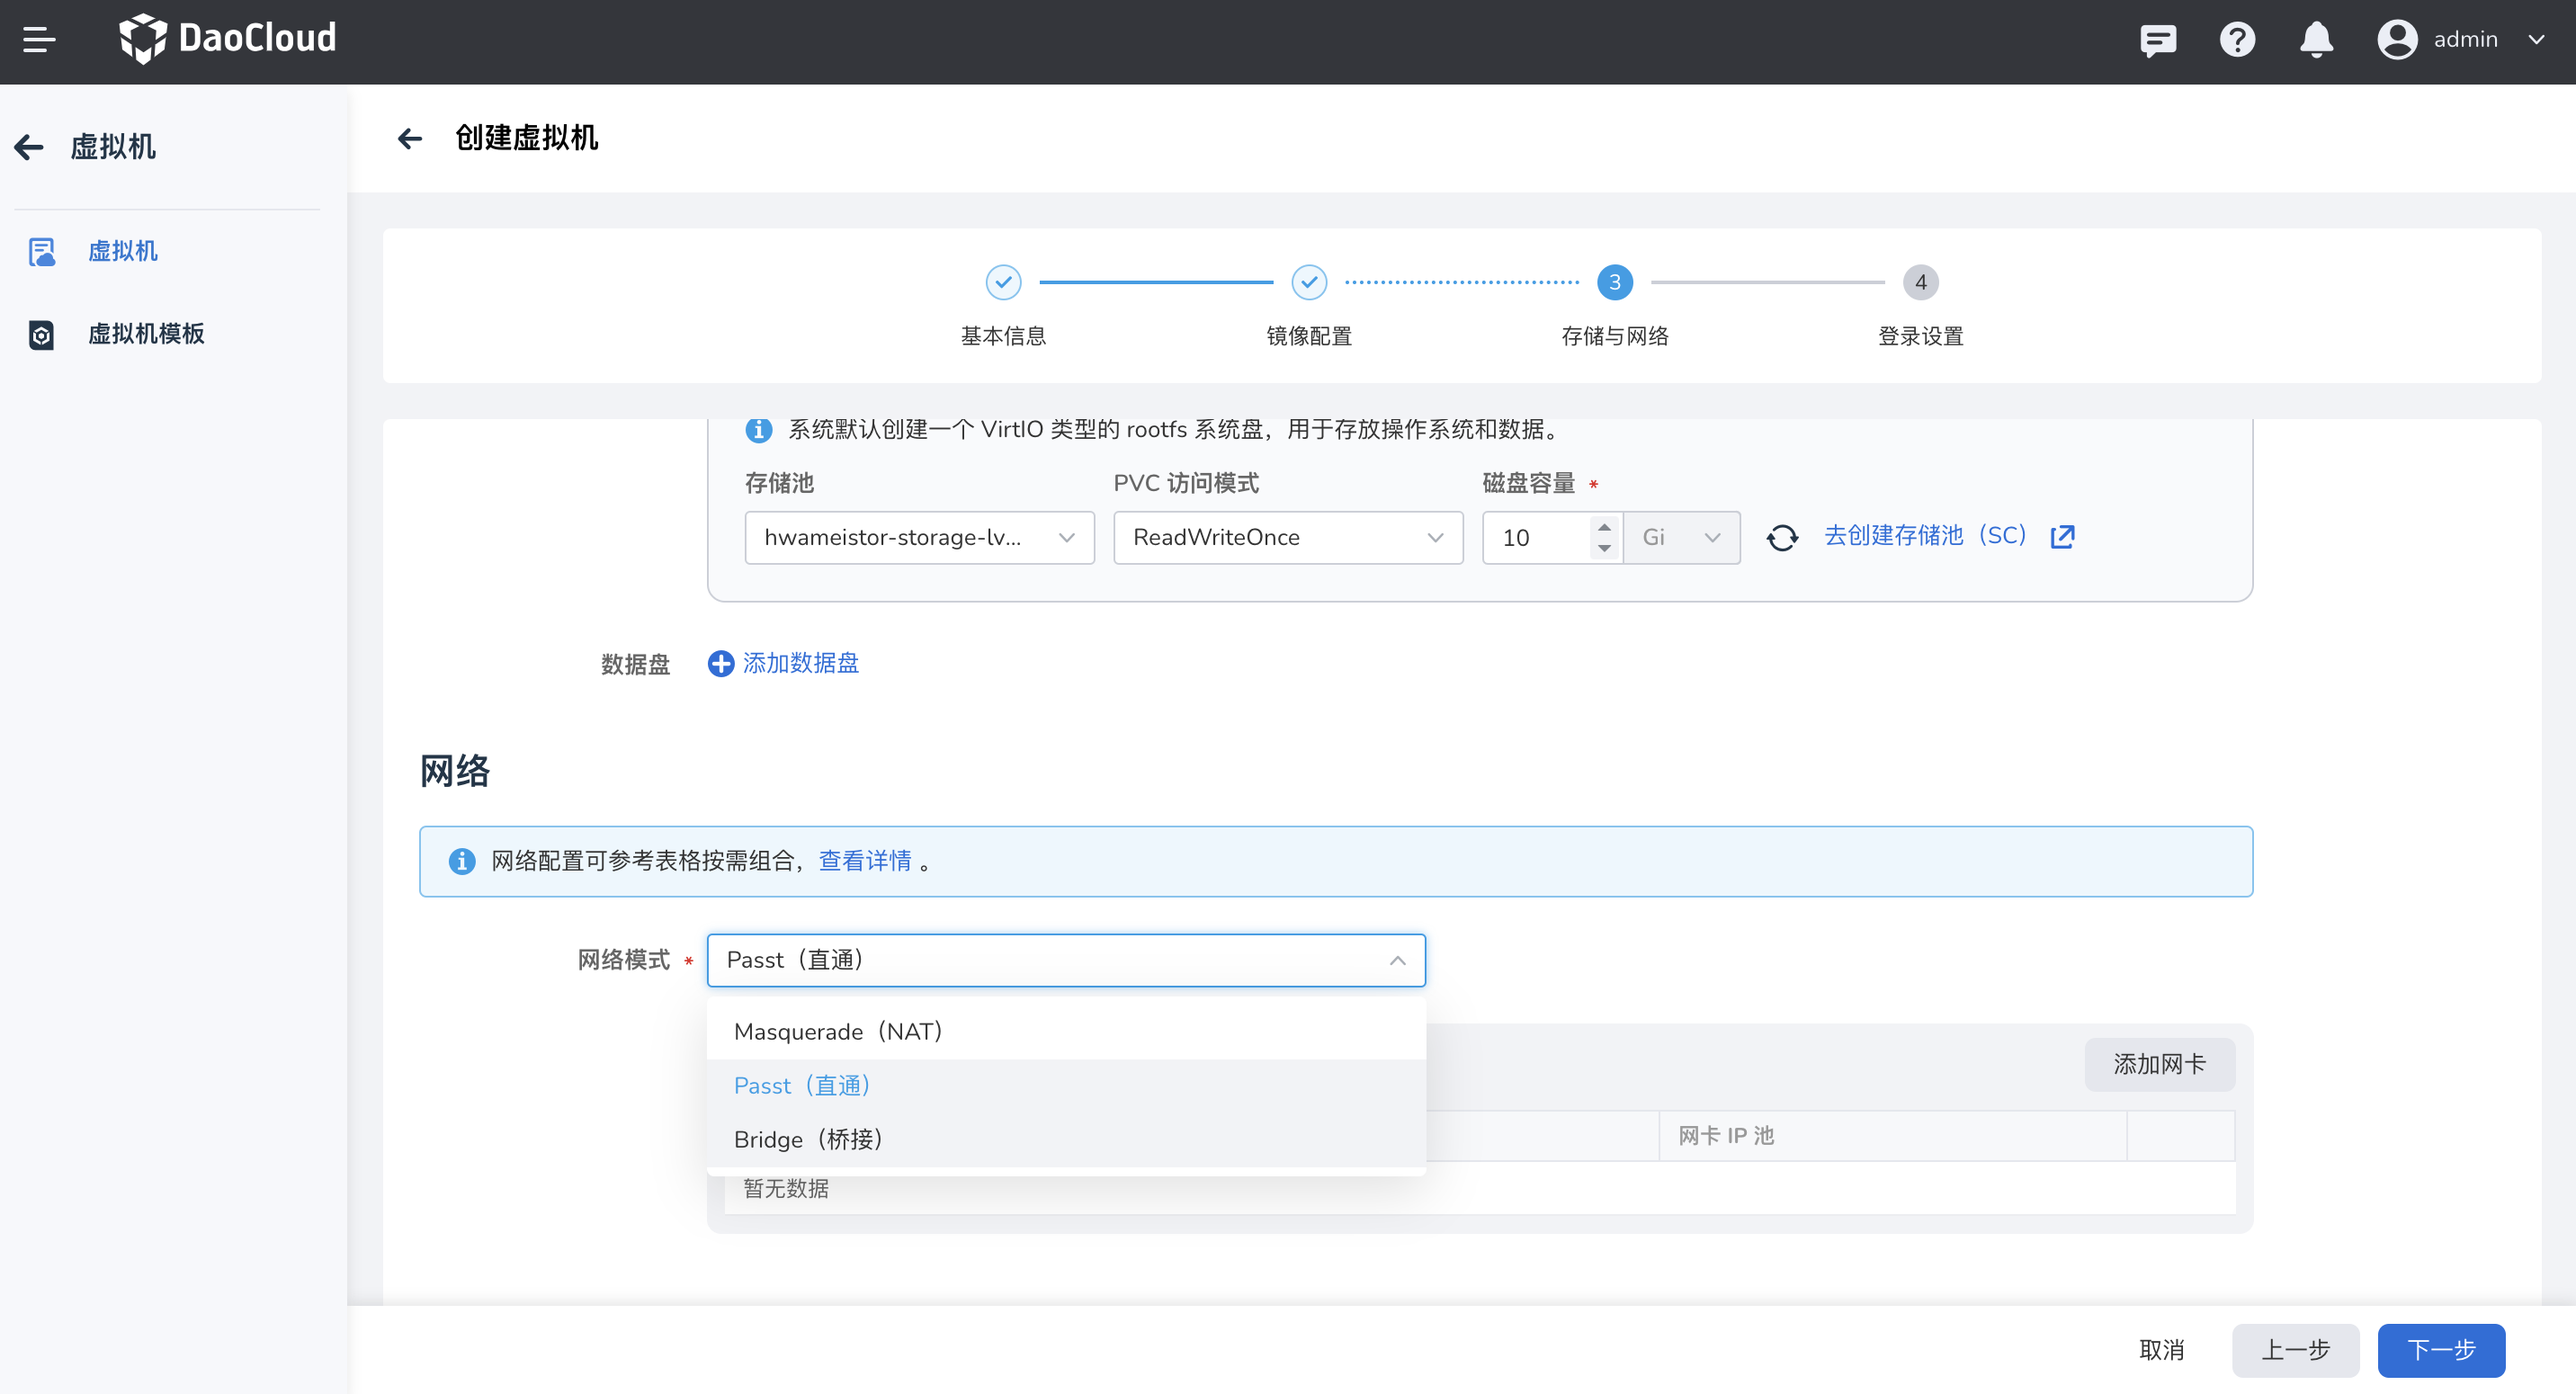
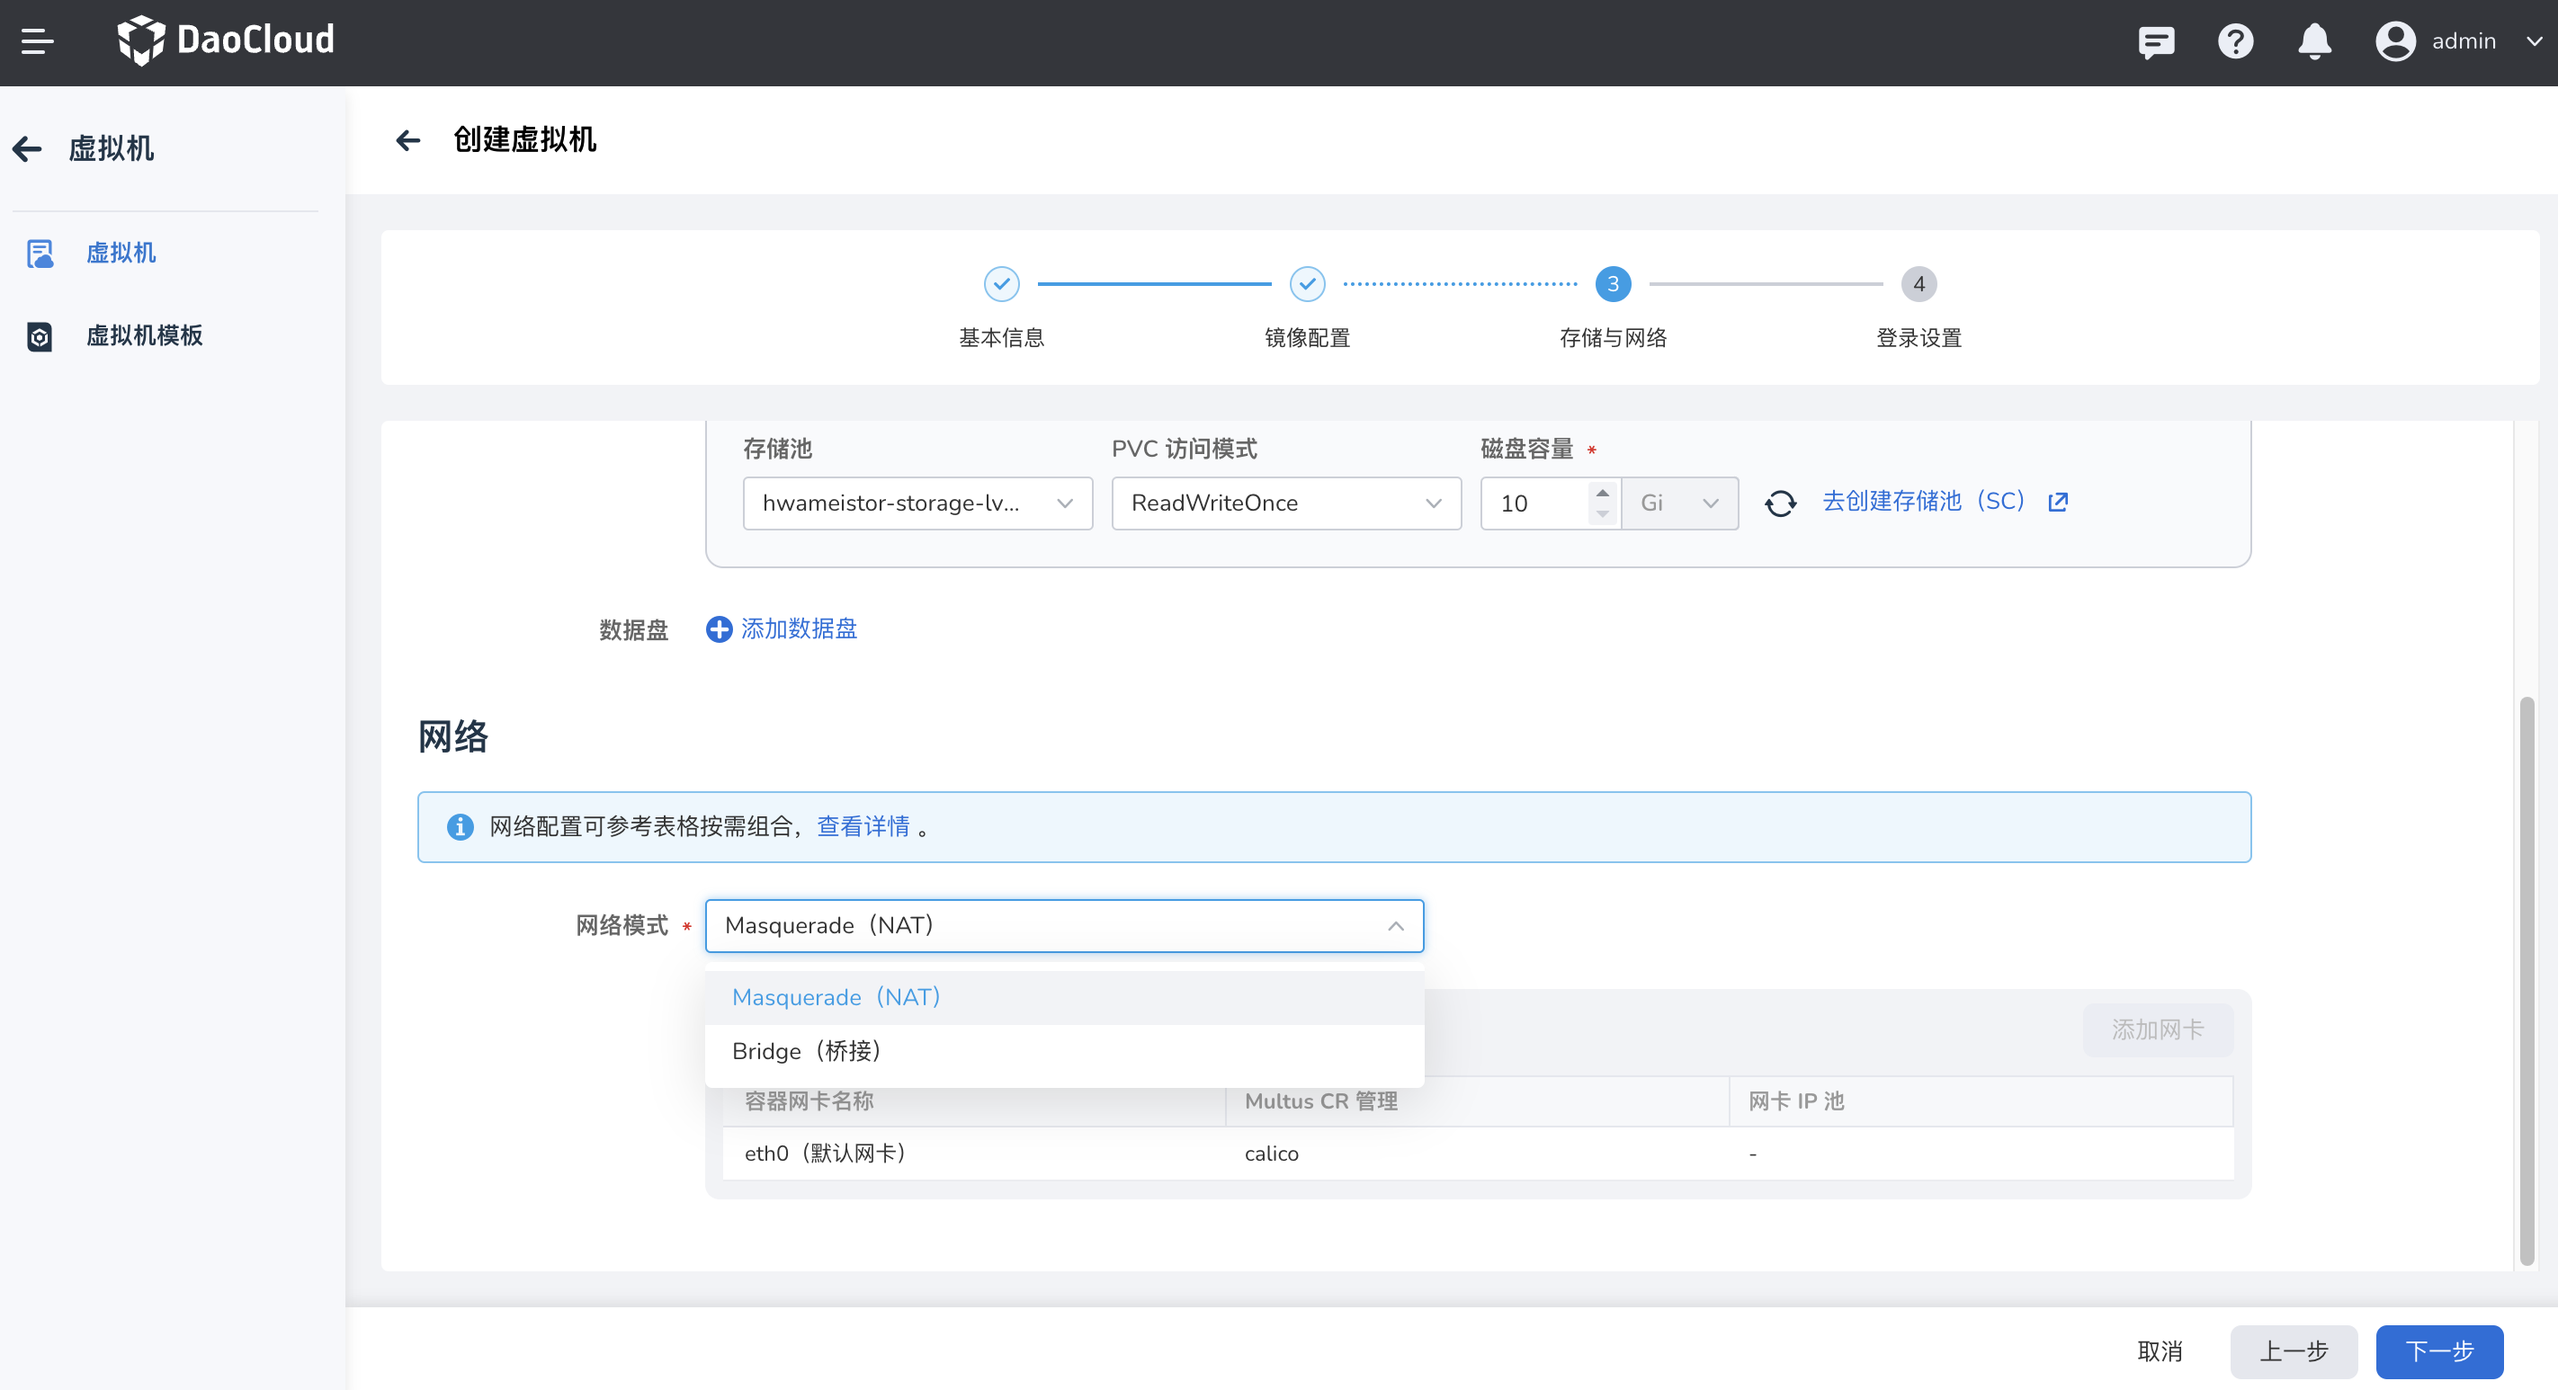
virtnest-update network

diff --git a/docs/zh/docs/virtnest/vm/vm-network.md b/docs/zh/docs/virtnest/vm/vm-network.md
@@ -11,12 +11,7 @@
 
 在使用虚拟机网络功能之前，需要根据网络模式的不同配置不同的信息：
 
-1. 选择 Passt 网络模式
-
-    - 创建 macvlan 或 ipvlan 类型的 Multus CR，参考[创建 Multus CR](../../network/config/multus-cr.md)
-    - 创建子网及 IP 池，参考[创建子网和 IP 池](../../network/config/ippool/createpool.md)
-
-1. 选择 Bridge 网络模式
+1. 选择 Bridge 网络模式时需要提前配置一些信息：
 
     -  创建 ovs 类型的 Multus CR，可参考[创建 Multus CR](https://spidernet-io.github.io/spiderpool/v0.9/usage/install/underlay/get-started-ovs-zh_CN/)
     -  创建子网及 IP 池，参考[创建子网和 IP 池](../../network/config/ippool/createpool.md)
@@ -30,30 +25,25 @@
     | Masquerade（NAT） | Calico  | ❌                 | 单网卡       | ❌               | ✅            |
     |                   | Cilium  | ❌                 | 单网卡       | ❌               | ✅            |
     |                   | Flannel | ❌                 | 单网卡       | ❌               | ✅            |
-    | Passt（直通）     | macvlan | ✅                 | 单网卡       | ✅               | ✅           |
-    |                   | ipvlan  | ✅                 | 多网卡       | ✅               | ✅           |
     | Bridge（桥接）    | OVS     | ✅                 | 多网卡       | ✅               | ✅           |
     
     ![网络配置](../images/createvm-net01.png)
-
-2. 网络模式：分为 Masquerade（NAT）、Passt（直通）、Bridge（桥接）三种，后两种模式需要安装了 spiderpool 组件后方可使用。
+    
+2. 网络模式：分为 Masquerade（NAT）、Bridge（桥接）两种，Bridge（桥接）模式需要安装了 spiderpool 组件后方可使用。
    
     1. 默认选择 Masquerade（NAT）的网络模式，使用 eth0 默认网卡。
       
-    2. 若集群内安装了 spiderpool 组件，则支持选择 Passt（直通）/Bridge（桥接）模式，Bridge（桥接）模式支持多网卡形式。
+    2. 若集群内安装了 spiderpool 组件，则支持选择 Bridge（桥接）模式，支持多网卡形式。
 
         ![网络模式](../images/createvm-net02.png)
-        
-        -  选择 Passt 模式时，需要有一些前提条件。
-            - 创建 macvlan 或 ipvlan 类型的 Multus CR。可参考[创建 macvlan 或 ipvlan 类型的 Multus CR](../../network/config/multus-cr.md)
-            - 创建子网及 IP 池。可参考[创建子网及 IP 池](../../network/config/ippool/createpool.md)
+
         -  选择 Bridge 模式时，需要有一些前提条件。
             - 创建 ovs 类型的 Multus CR，目前页面上无法创建，可参考[创建 ovs 类型的 Multus CR](https://spidernet-io.github.io/spiderpool/v0.9/usage/install/underlay/get-started-ovs-zh_CN/)
             - 创建子网及 IP 池与 passt 模式步骤一致。
 
 3. 添加网卡
    
-    1. Passt（直通）/Bridge（桥接）模式下支持手动添加网卡。点击 __添加网卡__ ，进行网卡 IP 池的配置。选择和网络模式匹配的 Multus CR，若没有则需要自行创建。
+    1. Bridge（桥接）模式下支持手动添加网卡。点击 __添加网卡__ ，进行网卡 IP 池的配置。选择和网络模式匹配的 Multus CR，若没有则需要自行创建。
     
     2. 若打开 __使用默认 IP 池__ 开关，则使用 multus CR 配置中的默认 IP 池。若关闭开关，则手动选择 IP 池。
        
